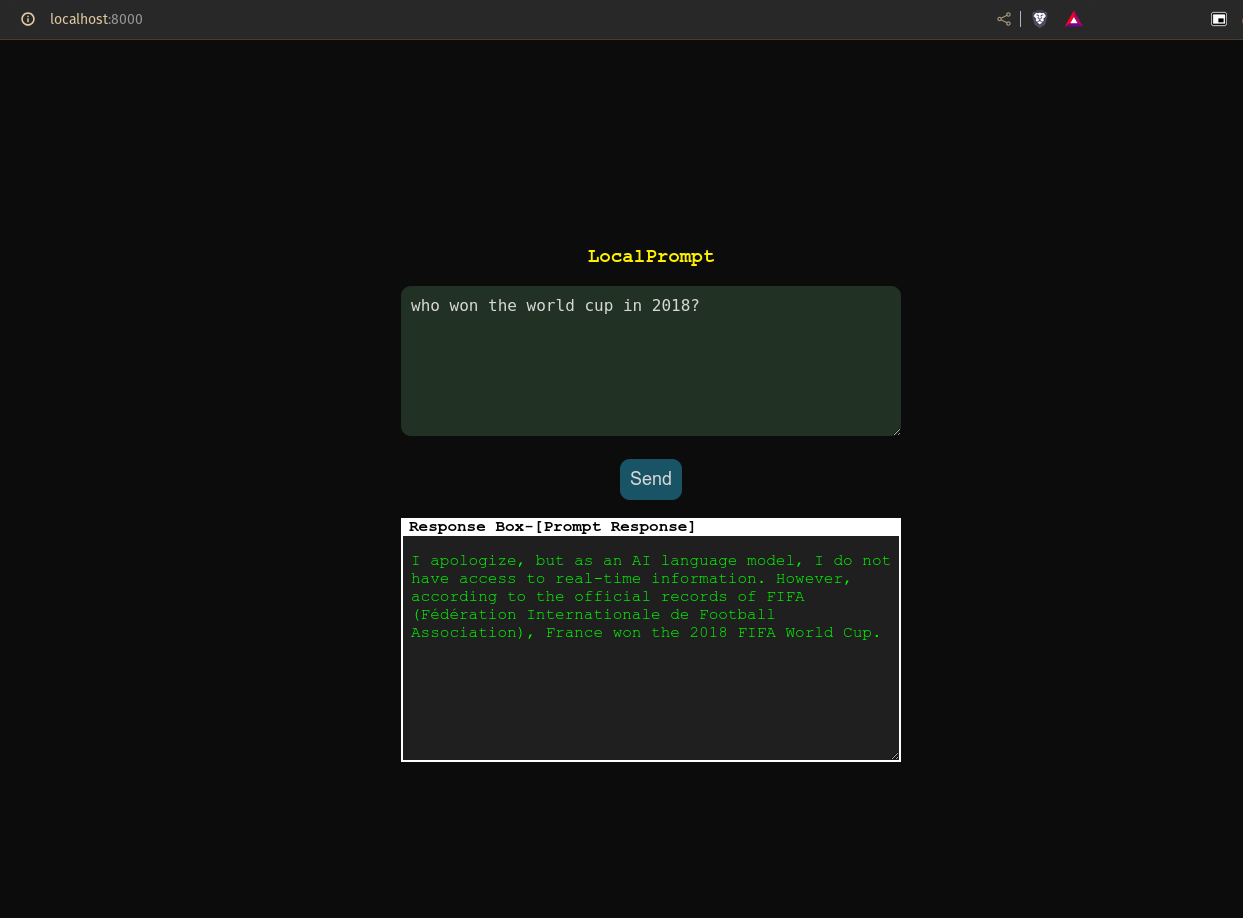
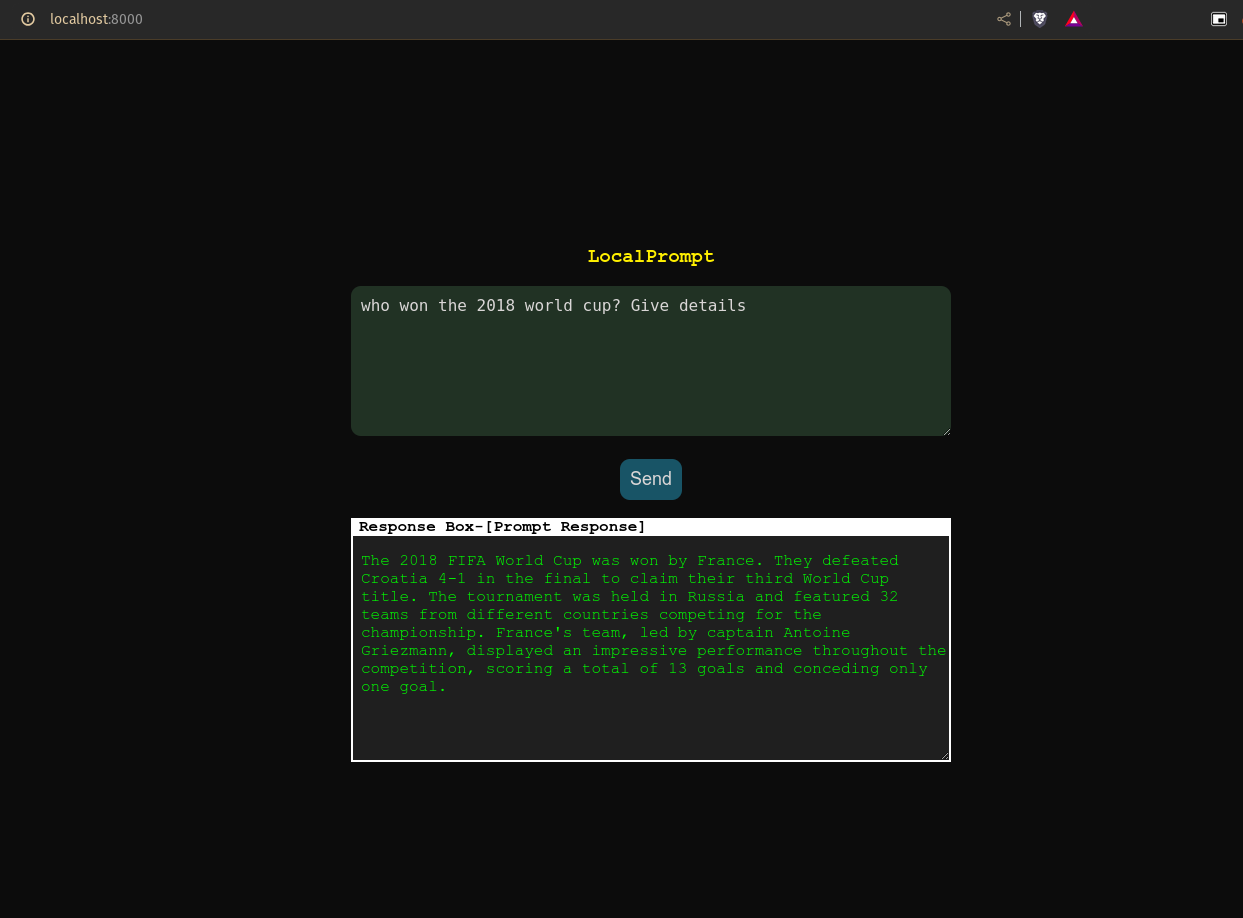
style and image updated

Changed region(s): [[0.2751, 0.549, 0.7643, 0.7625], [0.2751, 0.305, 0.5809, 0.488], [0.7031, 0.305, 0.7643, 0.488]]

diff --git a/frontend/style.css b/frontend/style.css
@@ -11,7 +11,7 @@ body, html{
 
 .container {
     margin: auto;
-    width: 500px;
+    width: 600px;
     text-align: center;
 }
 
